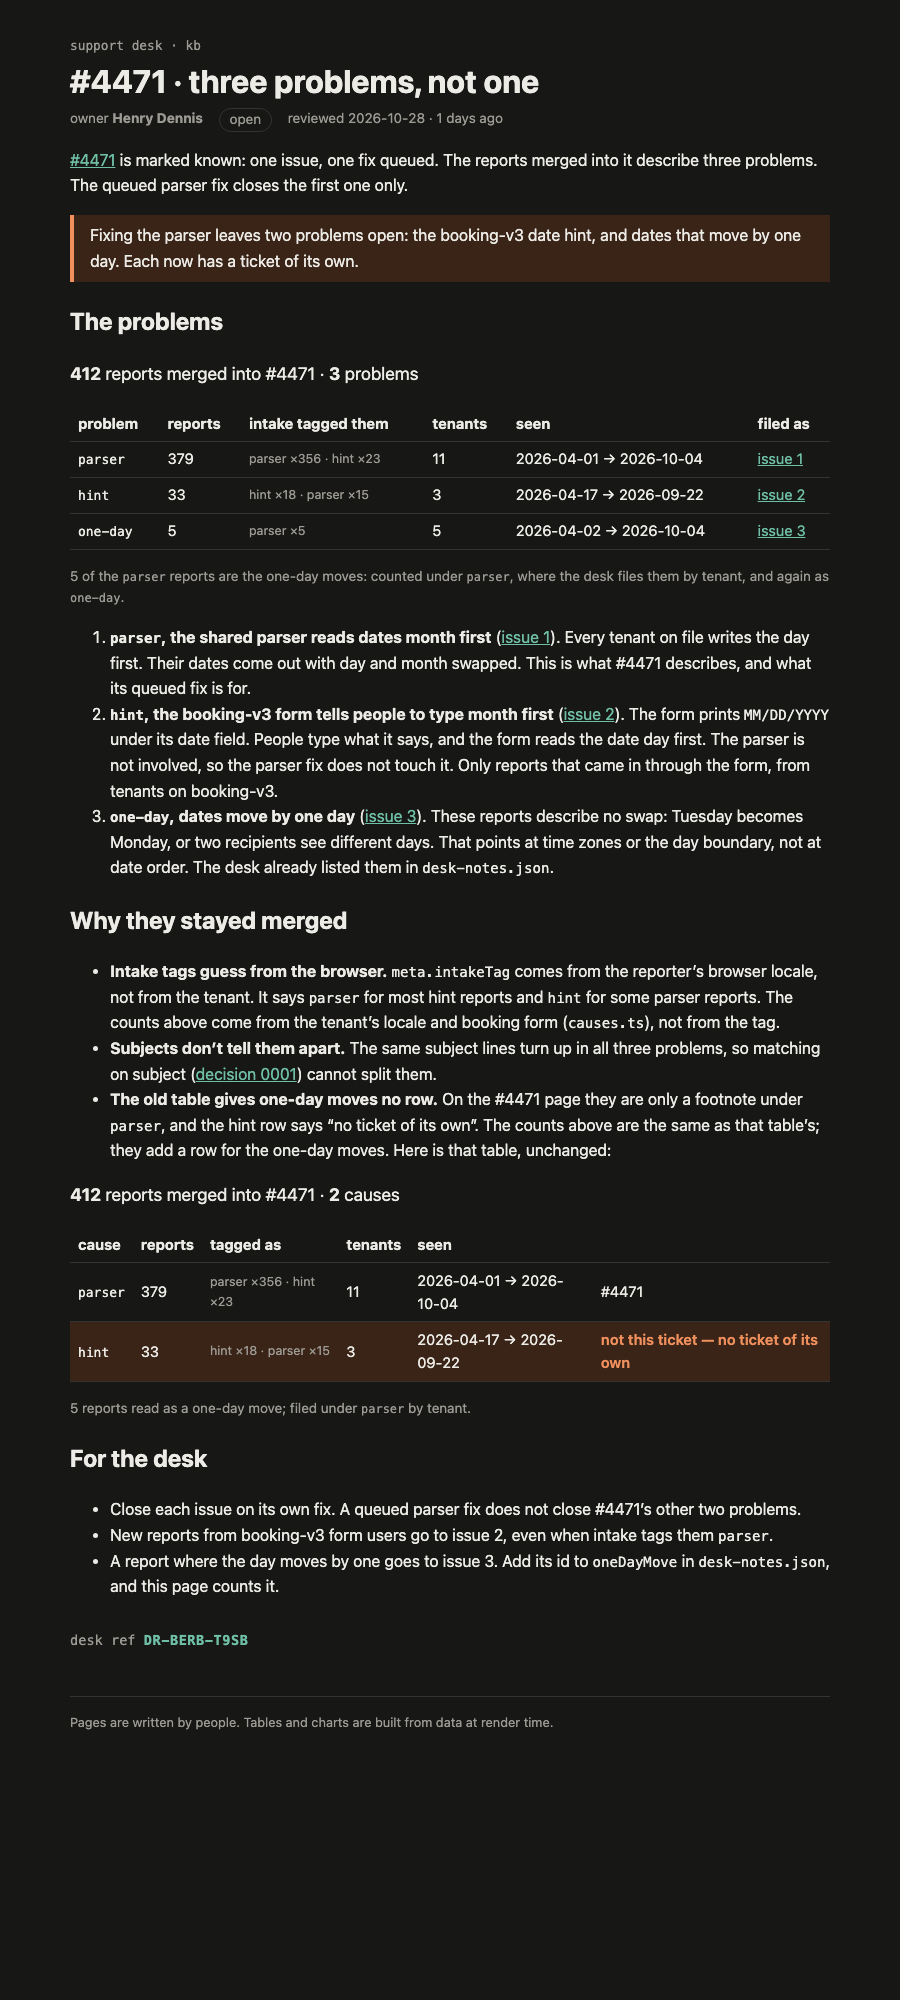
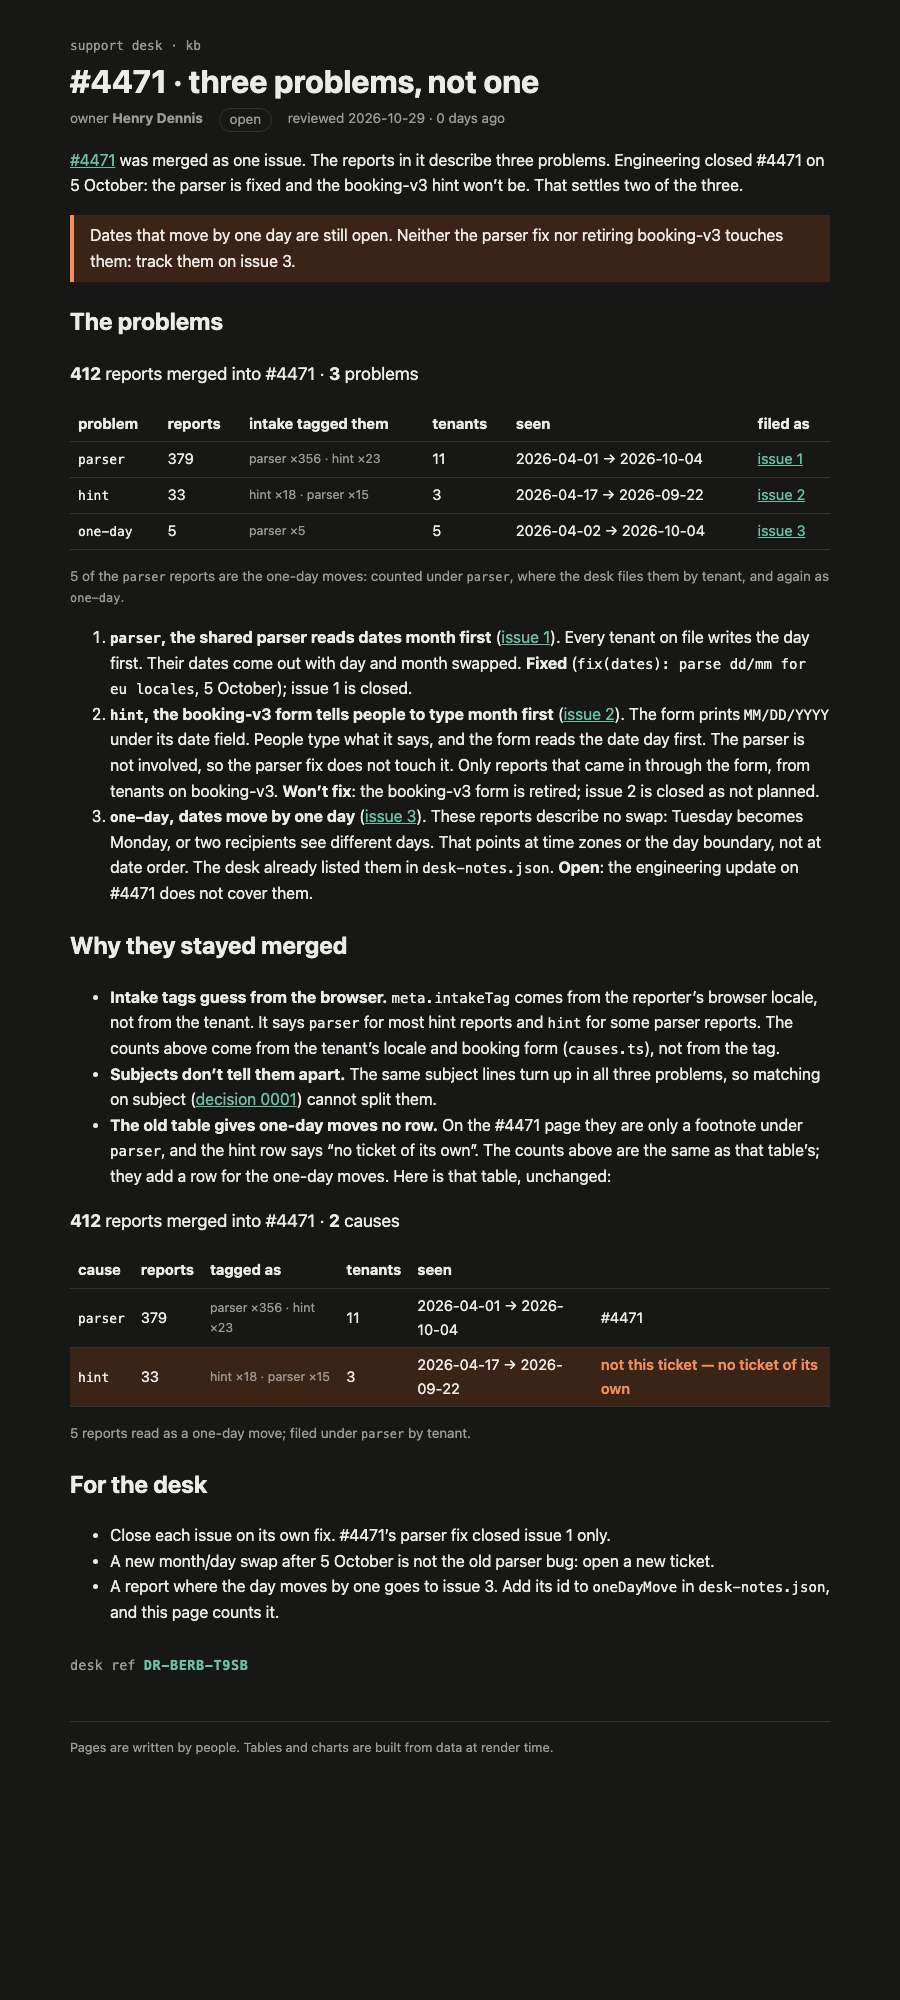
Record engineering's #4471 outcome on the page
#4471 closed 5 Oct: parser fixed (issue 1 closed), booking-v3 hint won't fix,
form retired (issue 2 closed, not planned). One-day moves are not covered,
so issue 3 stays open.

diff --git a/rendered/4471-problems.html b/rendered/4471-problems.html
@@ -24,21 +24,22 @@
 </style>
 		<style>.sum.svelte-1op6c6{font-size:1.1rem}.tags.svelte-1op6c6,.note.svelte-1op6c6{color:var(--muted);font-size:.85em}.unfiled.svelte-1op6c6 td:where(.svelte-1op6c6){background:var(--warn-bg)}.unfiled.svelte-1op6c6 td:where(.svelte-1op6c6):last-child{color:var(--warn);font-weight:600}.stamp.svelte-1280m42{margin:2rem 0 0;font:.85rem var(--mono);color:var(--muted)}.stamp.svelte-1280m42 b:where(.svelte-1280m42){color:var(--accent);letter-spacing:.04em}.missing.svelte-1280m42{color:var(--warn)}
 </style></head>
-<body><div style="display: contents"><!--[--><!--[0--><!--[--><!--[--><div class="kb svelte-e2jw2j"><header><a class="crumb svelte-e2jw2j" href="/kb">support desk · kb</a> <h1 class="svelte-e2jw2j">#4471 · three problems, not one</h1> <p class="meta svelte-e2jw2j"><span>owner <b>Henry Dennis</b></span> <span class="status open svelte-e2jw2j">open</span> <span class="svelte-e2jw2j">reviewed 2026-10-28 · 1 days ago</span></p></header> <!--[-1--><!--]--> <main><p><a href="/kb/incidents/4471">#4471</a> is marked known: one issue, one fix queued. The reports merged into it
-describe three problems. The queued parser fix closes the first one only.</p> <aside class="warn svelte-17bri61"><!---->Fixing the parser leaves two problems open: the booking-v3 date hint, and dates that move by one day.
-Each now has a ticket of its own.<!----></aside><!----> <h2>The problems</h2> <p class="sum svelte-1op6c6"><strong>412</strong> reports merged into #4471 · <strong>3</strong> problems</p> <table><thead><tr><th>problem</th><th>reports</th><th>intake tagged them</th><th>tenants</th><th>seen</th><th>filed as</th></tr></thead><tbody><!--[--><tr class="svelte-1op6c6"><td class="svelte-1op6c6"><code>parser</code></td><td class="svelte-1op6c6">379</td><td class="tags svelte-1op6c6">parser ×356 · hint ×23</td><td class="svelte-1op6c6">11</td><td class="svelte-1op6c6">2026-04-01 → 2026-10-04</td><td class="svelte-1op6c6"><!--[0--><a href="https://github.com/henrydennis/what-it-shows/issues/1">issue 1</a><!--]--></td></tr><tr class="svelte-1op6c6"><td class="svelte-1op6c6"><code>hint</code></td><td class="svelte-1op6c6">33</td><td class="tags svelte-1op6c6">hint ×18 · parser ×15</td><td class="svelte-1op6c6">3</td><td class="svelte-1op6c6">2026-04-17 → 2026-09-22</td><td class="svelte-1op6c6"><!--[0--><a href="https://github.com/henrydennis/what-it-shows/issues/2">issue 2</a><!--]--></td></tr><!--]--><!--[0--><tr class="svelte-1op6c6"><td class="svelte-1op6c6"><code>one-day</code></td><td class="svelte-1op6c6">5</td><td class="tags svelte-1op6c6">parser ×5</td><td class="svelte-1op6c6">5</td><td class="svelte-1op6c6">2026-04-02 → 2026-10-04</td><td class="svelte-1op6c6"><!--[0--><a href="https://github.com/henrydennis/what-it-shows/issues/3">issue 3</a><!--]--></td></tr><!--]--></tbody></table> <!--[--><!--[0--><p class="note svelte-1op6c6">5 of the <code>parser</code> reports are the one-day moves: counted under <code>parser</code>, where the desk files them by tenant, and again as <code>one-day</code>.</p><!--]--><!--[-1--><!--]--><!--]--><!----> <ol><li><strong><code>parser</code>, the shared parser reads dates month first</strong> (<a href="https://github.com/henrydennis/what-it-shows/issues/1" rel="nofollow">issue 1</a>).
-Every tenant on file writes the day first. Their dates come out with day and month swapped.
-This is what #4471 describes, and what its queued fix is for.</li> <li><strong><code>hint</code>, the booking-v3 form tells people to type month first</strong> (<a href="https://github.com/henrydennis/what-it-shows/issues/2" rel="nofollow">issue 2</a>).
+<body><div style="display: contents"><!--[--><!--[0--><!--[--><!--[--><div class="kb svelte-e2jw2j"><header><a class="crumb svelte-e2jw2j" href="/kb">support desk · kb</a> <h1 class="svelte-e2jw2j">#4471 · three problems, not one</h1> <p class="meta svelte-e2jw2j"><span>owner <b>Henry Dennis</b></span> <span class="status open svelte-e2jw2j">open</span> <span class="svelte-e2jw2j">reviewed 2026-10-29 · 0 days ago</span></p></header> <!--[-1--><!--]--> <main><p><a href="/kb/incidents/4471">#4471</a> was merged as one issue. The reports in it describe three problems.
+Engineering closed #4471 on 5 October: the parser is fixed and the booking-v3 hint won’t be. That
+settles two of the three.</p> <aside class="warn svelte-17bri61"><!---->Dates that move by one day are still open. Neither the parser fix nor retiring booking-v3 touches
+them: track them on issue 3.<!----></aside><!----> <h2>The problems</h2> <p class="sum svelte-1op6c6"><strong>412</strong> reports merged into #4471 · <strong>3</strong> problems</p> <table><thead><tr><th>problem</th><th>reports</th><th>intake tagged them</th><th>tenants</th><th>seen</th><th>filed as</th></tr></thead><tbody><!--[--><tr class="svelte-1op6c6"><td class="svelte-1op6c6"><code>parser</code></td><td class="svelte-1op6c6">379</td><td class="tags svelte-1op6c6">parser ×356 · hint ×23</td><td class="svelte-1op6c6">11</td><td class="svelte-1op6c6">2026-04-01 → 2026-10-04</td><td class="svelte-1op6c6"><!--[0--><a href="https://github.com/henrydennis/what-it-shows/issues/1">issue 1</a><!--]--></td></tr><tr class="svelte-1op6c6"><td class="svelte-1op6c6"><code>hint</code></td><td class="svelte-1op6c6">33</td><td class="tags svelte-1op6c6">hint ×18 · parser ×15</td><td class="svelte-1op6c6">3</td><td class="svelte-1op6c6">2026-04-17 → 2026-09-22</td><td class="svelte-1op6c6"><!--[0--><a href="https://github.com/henrydennis/what-it-shows/issues/2">issue 2</a><!--]--></td></tr><!--]--><!--[0--><tr class="svelte-1op6c6"><td class="svelte-1op6c6"><code>one-day</code></td><td class="svelte-1op6c6">5</td><td class="tags svelte-1op6c6">parser ×5</td><td class="svelte-1op6c6">5</td><td class="svelte-1op6c6">2026-04-02 → 2026-10-04</td><td class="svelte-1op6c6"><!--[0--><a href="https://github.com/henrydennis/what-it-shows/issues/3">issue 3</a><!--]--></td></tr><!--]--></tbody></table> <!--[--><!--[0--><p class="note svelte-1op6c6">5 of the <code>parser</code> reports are the one-day moves: counted under <code>parser</code>, where the desk files them by tenant, and again as <code>one-day</code>.</p><!--]--><!--[-1--><!--]--><!--]--><!----> <ol><li><strong><code>parser</code>, the shared parser reads dates month first</strong> (<a href="https://github.com/henrydennis/what-it-shows/issues/1" rel="nofollow">issue 1</a>).
+Every tenant on file writes the day first. Their dates come out with day and month swapped. <strong>Fixed</strong> (<code>fix(dates): parse dd/mm for eu locales</code>, 5 October); issue 1 is closed.</li> <li><strong><code>hint</code>, the booking-v3 form tells people to type month first</strong> (<a href="https://github.com/henrydennis/what-it-shows/issues/2" rel="nofollow">issue 2</a>).
 The form prints <code>MM/DD/YYYY</code> under its date field. People type what it says, and the form reads
 the date day first. The parser is not involved, so the parser fix does not touch it. Only
-reports that came in through the form, from tenants on booking-v3.</li> <li><strong><code>one-day</code>, dates move by one day</strong> (<a href="https://github.com/henrydennis/what-it-shows/issues/3" rel="nofollow">issue 3</a>).
+reports that came in through the form, from tenants on booking-v3. <strong>Won’t fix</strong>: the booking-v3
+form is retired; issue 2 is closed as not planned.</li> <li><strong><code>one-day</code>, dates move by one day</strong> (<a href="https://github.com/henrydennis/what-it-shows/issues/3" rel="nofollow">issue 3</a>).
 These reports describe no swap: Tuesday becomes Monday, or two recipients see different days.
 That points at time zones or the day boundary, not at date order. The desk already listed them
-in <code>desk-notes.json</code>.</li></ol> <h2>Why they stayed merged</h2> <ul><li><strong>Intake tags guess from the browser.</strong> <code>meta.intakeTag</code> comes from the reporter’s browser locale,
+in <code>desk-notes.json</code>. <strong>Open</strong>: the engineering update on #4471 does not cover them.</li></ol> <h2>Why they stayed merged</h2> <ul><li><strong>Intake tags guess from the browser.</strong> <code>meta.intakeTag</code> comes from the reporter’s browser locale,
 not from the tenant. It says <code>parser</code> for most hint reports and <code>hint</code> for some parser reports.
 The counts above come from the tenant’s locale and booking form (<code>causes.ts</code>), not from the tag.</li> <li><strong>Subjects don’t tell them apart.</strong> The same subject lines turn up in all three problems,
 so matching on subject (<a href="/kb/decisions/0001-dedupe-by-subject">decision 0001</a>) cannot split them.</li> <li><strong>The old table gives one-day moves no row.</strong> On the #4471 page they are only a footnote under <code>parser</code>, and the hint row says “no ticket of its own”. The counts above are the same as that
-table’s; they add a row for the one-day moves. Here is that table, unchanged:</li></ul> <p class="sum svelte-12oyimm"><strong>412</strong> reports merged into #4471 · <strong>2</strong> causes</p> <table><thead><tr><th>cause</th><th>reports</th><th>tagged as</th><th>tenants</th><th>seen</th><th></th></tr></thead><tbody><!--[--><tr class="svelte-12oyimm"><td class="svelte-12oyimm"><code>parser</code></td><td class="svelte-12oyimm">379</td><td class="tags svelte-12oyimm">parser ×356 · hint ×23</td><td class="svelte-12oyimm">11</td><td class="svelte-12oyimm">2026-04-01 → 2026-10-04</td><td class="svelte-12oyimm">#4471</td></tr><tr class="svelte-12oyimm wrong"><td class="svelte-12oyimm"><code>hint</code></td><td class="svelte-12oyimm">33</td><td class="tags svelte-12oyimm">hint ×18 · parser ×15</td><td class="svelte-12oyimm">3</td><td class="svelte-12oyimm">2026-04-17 → 2026-09-22</td><td class="svelte-12oyimm">not this ticket — no ticket of its own</td></tr><!--]--></tbody></table> <!--[--><!--[0--><p class="note svelte-12oyimm">5 reports read as a one-day move; filed under <code>parser</code> by tenant.</p><!--]--><!--[-1--><!--]--><!--]--><!----> <h2>For the desk</h2> <ul><li>Close each issue on its own fix. A queued parser fix does not close #4471’s other two problems.</li> <li>New reports from booking-v3 form users go to issue 2, even when intake tags them <code>parser</code>.</li> <li>A report where the day moves by one goes to issue 3. Add its id to <code>oneDayMove</code> in <code>desk-notes.json</code>, and this page counts it.</li></ul> <!--[0--><p class="stamp svelte-1280m42">desk ref <b class="svelte-1280m42">DR-BERB-T9SB</b></p><!--]--><!----><!----></main> <footer class="svelte-e2jw2j">Pages are written by people. Tables and charts are built from data at render time.</footer></div><!--]--><!----><!--]--><!--]--> <!--[-1--><!--]--><!--]-->
+table’s; they add a row for the one-day moves. Here is that table, unchanged:</li></ul> <p class="sum svelte-12oyimm"><strong>412</strong> reports merged into #4471 · <strong>2</strong> causes</p> <table><thead><tr><th>cause</th><th>reports</th><th>tagged as</th><th>tenants</th><th>seen</th><th></th></tr></thead><tbody><!--[--><tr class="svelte-12oyimm"><td class="svelte-12oyimm"><code>parser</code></td><td class="svelte-12oyimm">379</td><td class="tags svelte-12oyimm">parser ×356 · hint ×23</td><td class="svelte-12oyimm">11</td><td class="svelte-12oyimm">2026-04-01 → 2026-10-04</td><td class="svelte-12oyimm">#4471</td></tr><tr class="svelte-12oyimm wrong"><td class="svelte-12oyimm"><code>hint</code></td><td class="svelte-12oyimm">33</td><td class="tags svelte-12oyimm">hint ×18 · parser ×15</td><td class="svelte-12oyimm">3</td><td class="svelte-12oyimm">2026-04-17 → 2026-09-22</td><td class="svelte-12oyimm">not this ticket — no ticket of its own</td></tr><!--]--></tbody></table> <!--[--><!--[0--><p class="note svelte-12oyimm">5 reports read as a one-day move; filed under <code>parser</code> by tenant.</p><!--]--><!--[-1--><!--]--><!--]--><!----> <h2>For the desk</h2> <ul><li>Close each issue on its own fix. #4471’s parser fix closed issue 1 only.</li> <li>A new month/day swap after 5 October is not the old parser bug: open a new ticket.</li> <li>A report where the day moves by one goes to issue 3. Add its id to <code>oneDayMove</code> in <code>desk-notes.json</code>, and this page counts it.</li></ul> <!--[0--><p class="stamp svelte-1280m42">desk ref <b class="svelte-1280m42">DR-BERB-T9SB</b></p><!--]--><!----><!----></main> <footer class="svelte-e2jw2j">Pages are written by people. Tables and charts are built from data at render time.</footer></div><!--]--><!----><!--]--><!--]--> <!--[-1--><!--]--><!--]-->
 			
 			
 		</div></body></html>
